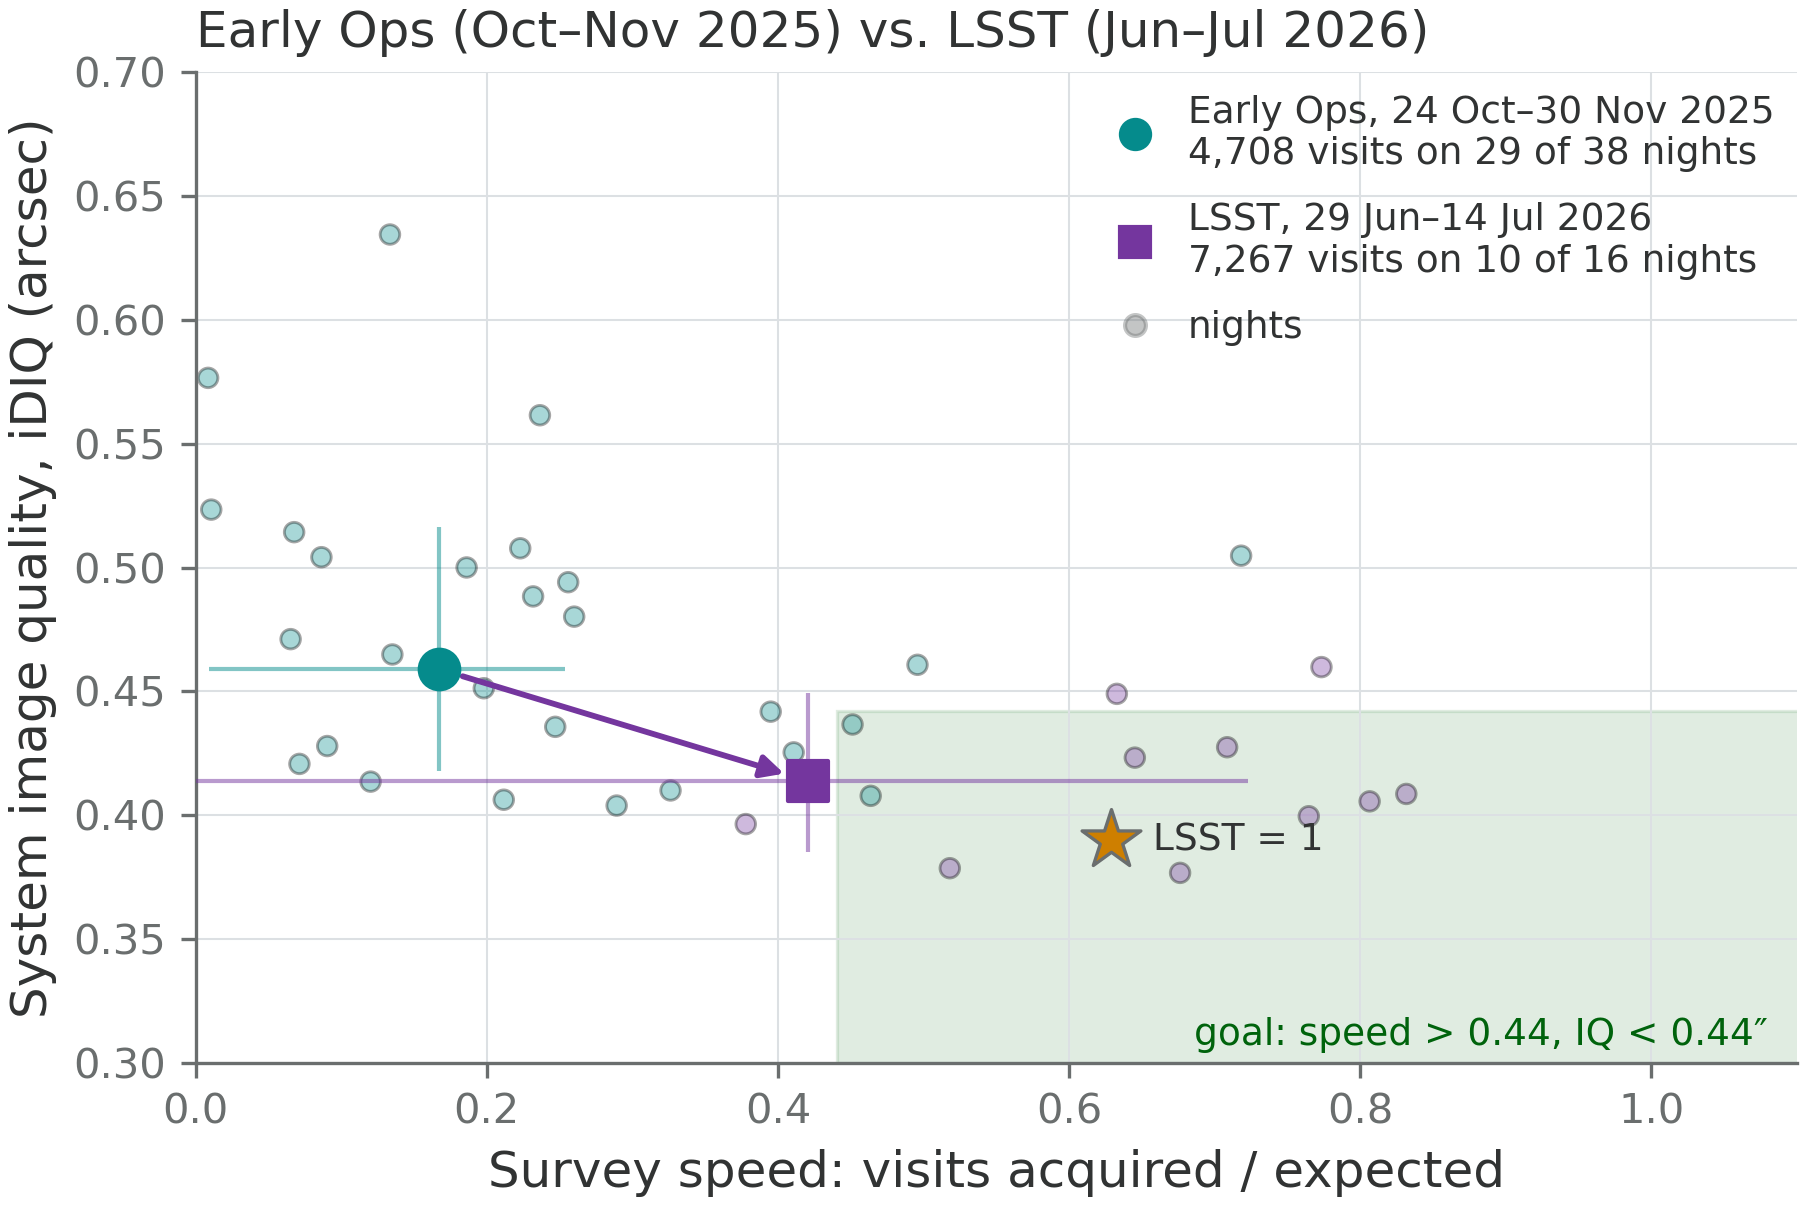
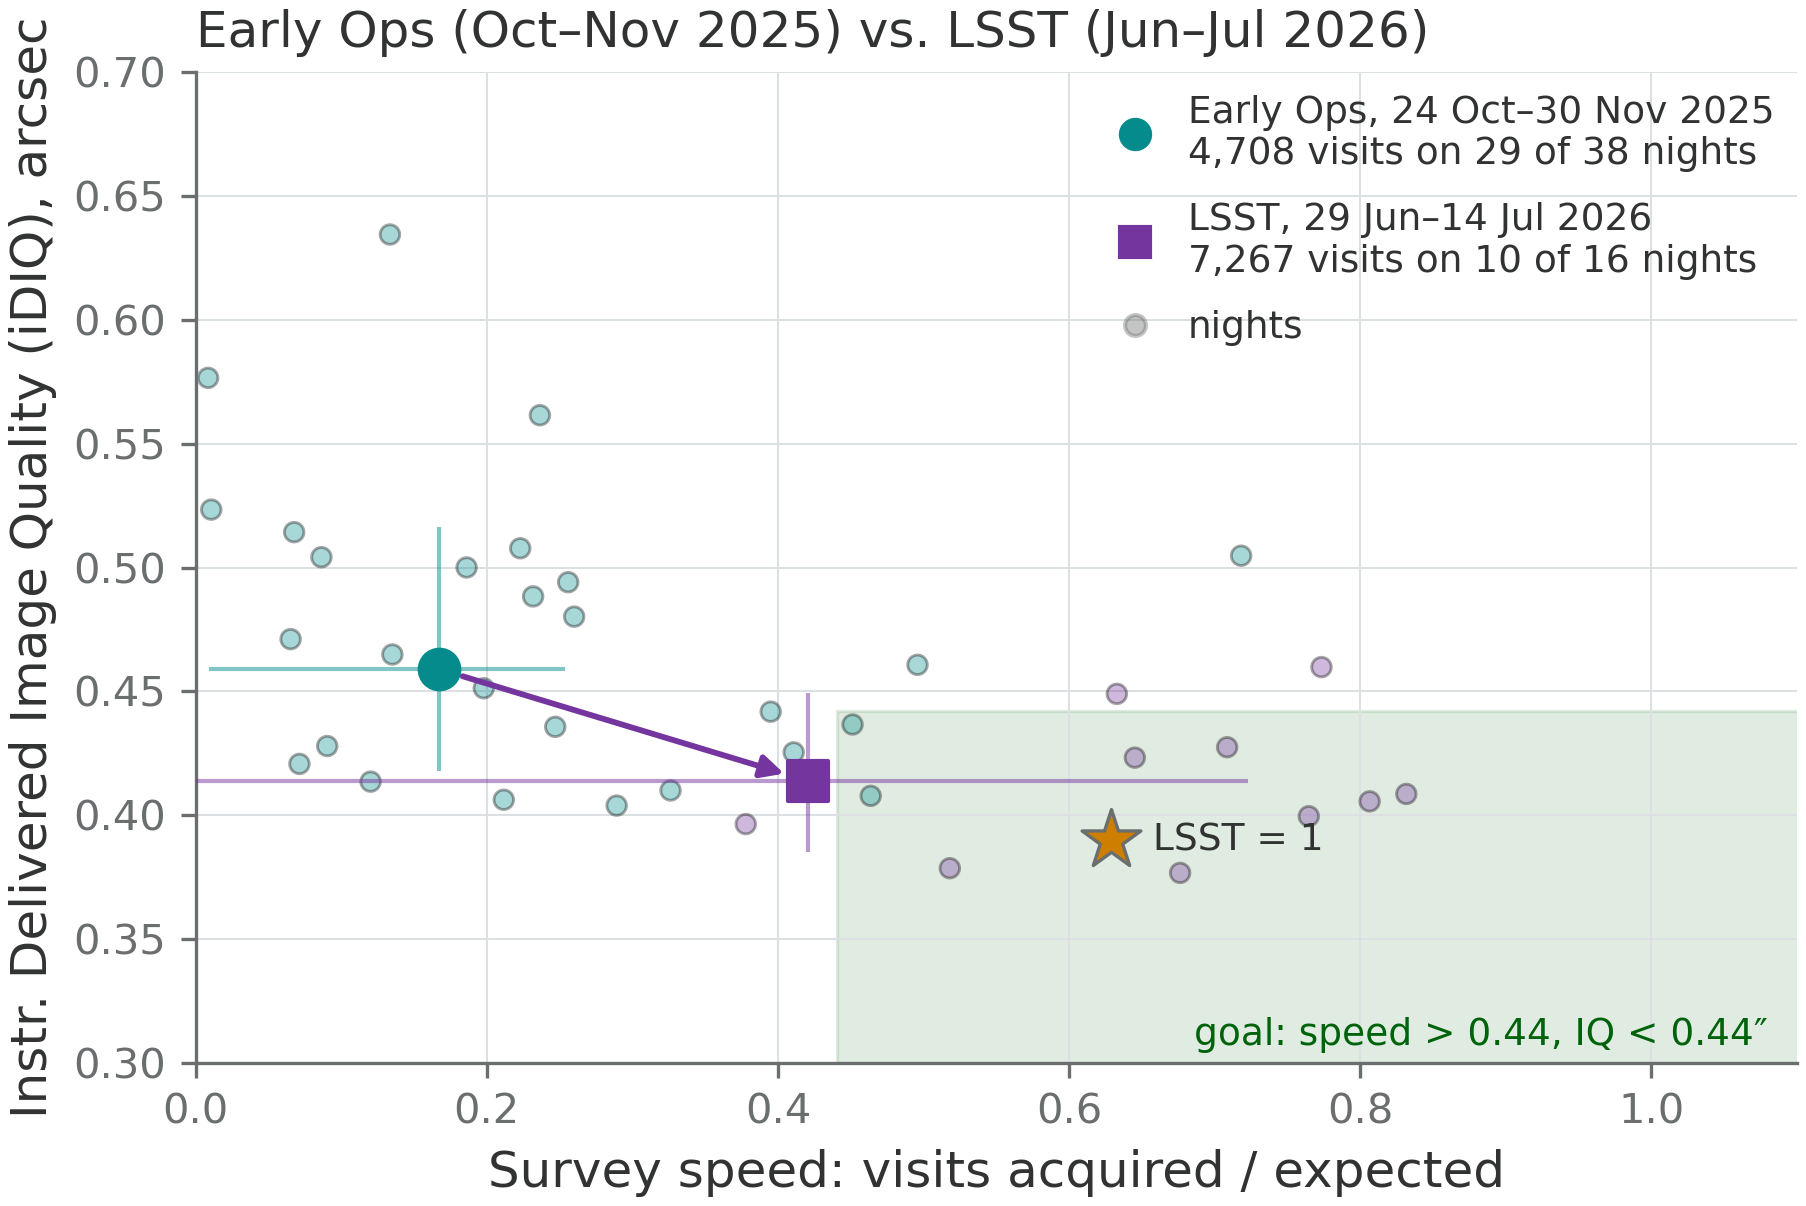
observatory_high_level_performance: label the y axis iDIQ, not "system" image quality
Phil Marshall pointed out that the y label mixed the two terms: iDIQ is the
instrument contribution to the delivered image quality (no dome/tube seeing),
while sDIQ is the system contribution (everything but the atmosphere, so
including dome/tube seeing). The plotted quantity (idiq_aos_cam) is iDIQ.

- y label is now "Instr. Delivered Image Quality (iDIQ), arcsec" in both the
  static (Y_LABELS_SHORT) and interactive (IQ_COLUMNS) figures
- goal-region label drops "system"; the ROST band is labelled as the measured
  system contribution, sDIQ, and its checkbox is "ROST sDIQ band"
- reference.py and README record the iDIQ/sDIQ definitions and note that
  RTN-093 calls its 0.45" criterion "sDIQ" while excluding dome seeing
- regenerated the five committed PNGs

Generated with AI

Changed region(s): [[0.0, 0.0307, 0.031, 0.9204]]

diff --git a/observatory_high_level_performance/ohlp/interactive.py b/observatory_high_level_performance/ohlp/interactive.py
@@ -291,7 +291,7 @@ def build_figure(
         y=yref["box_top"],
         x_units="data",
         y_units="data",
-        text="goal region: speed > %.2f, system IQ < %.2f″"
+        text="goal region: speed > %.2f, IQ < %.2f″"
         % (ref.VISIT_RATE.box_x_min, yref["box_top"]),
         text_align="right",
         text_baseline="top",
@@ -323,7 +323,7 @@ def build_figure(
     )
     p.add_layout(star_label)
 
-    # ROST measured full-system band (iDIQ axis only) ------------------------ #
+    # ROST measured system (sDIQ) band (iDIQ axis only) ---------------------- #
     rost = BoxAnnotation(
         bottom=ref.SYS_IQ_MEASURED_ROST[0],
         top=ref.SYS_IQ_MEASURED_ROST[1],
@@ -339,7 +339,7 @@ def build_figure(
     rost_label = Label(
         x=0.01,
         y=ref.SYS_IQ_MEASURED_ROST[1],
-        text="full-system IQ measured %.2f–%.2f″ (ROST Sep 2026; includes dome seeing and tracking, not comparable one-to-one)"
+        text="system contribution, sDIQ, measured %.2f–%.2f″ (ROST Sep 2026; includes dome seeing and tracking, so not one-to-one with iDIQ)"
         % ref.SYS_IQ_MEASURED_ROST,
         text_font_size="9pt",
         text_color=COLORS["rost_band"],
@@ -577,7 +577,7 @@ def build_figure(
         labels=[
             "Period points",
             "Nightly points",
-            "ROST full-system band",
+            "ROST sDIQ band",
         ],
         active=[
             i

diff --git a/observatory_high_level_performance/ohlp/reference.py b/observatory_high_level_performance/ohlp/reference.py
@@ -88,12 +88,16 @@ IDIQ_MIN: float = float(np.sqrt(SYS_IQ_START_CRITERION**2 - DOME_FWHM_BUDGET**2)
 #: cell 10 ``fiducial_atm = 0.7`` (SOTN-004 quotes 0.72 for the baseline sims).
 FIDUCIAL_ATM_FWHM: float = 0.7
 
-#: Brian Stalder's measured full-system contribution, arcsec, ROST 21 Sep 2026
+#: Brian Stalder's measured system contribution (sDIQ), arcsec, ROST 21 Sep 2026
 #: slide 2 ("0.55-0.60 arcsec, against a 0.40 budget"). It is the quadrature sum
 #: of the "measured" rows of SOTN-004 ``tab:diq_budget`` (optical figure 0.4,
 #: tracking drift 0.1, jitter 0.02, dome seeing 0.3-0.4, diffusion 0.207) and
 #: therefore INCLUDES dome seeing and tracking, which ``idiq_aos_cam`` does not.
-#: Drawn as a separate, toggleable band; not comparable one-to-one with the box.
+#: Terminology (Phil Marshall, 2026-10-20): iDIQ = instrument contribution to the
+#: delivered image quality, excluding dome/tube seeing; sDIQ = system contribution,
+#: everything except the atmosphere, so including dome/tube seeing. The y axis of
+#: the figure is iDIQ; this band is sDIQ. Drawn as a separate, toggleable band;
+#: not comparable one-to-one with the box.
 SYS_IQ_MEASURED_ROST: tuple[float, float] = (0.55, 0.60)
 
 #: Lower edge of the green region on the iDIQ axis (purely cosmetic; cell 15 ``y1``).

diff --git a/observatory_high_level_performance/ohlp/static.py b/observatory_high_level_performance/ohlp/static.py
@@ -27,7 +27,7 @@ __all__ = ["build_static_figure", "save_png"]
 
 #: Shorter y-axis labels for the small static figure (same quantities as IQ_COLUMNS).
 Y_LABELS_SHORT = {
-    "idiq_aos_cam": "System image quality, iDIQ (arcsec)",
+    "idiq_aos_cam": "Instr. Delivered Image Quality (iDIQ), arcsec",
     "fwhm_500_zenith": "Delivered FWHM, 500 nm zenith (arcsec)",
     "fwhm_geom": "Delivered FWHM, geometric (arcsec)",
 }

diff --git a/observatory_high_level_performance/ohlp/binning.py b/observatory_high_level_performance/ohlp/binning.py
@@ -41,7 +41,7 @@ __all__ = [
 
 #: Image-quality statistics available on the y axis, with axis labels.
 IQ_COLUMNS = {
-    "idiq_aos_cam": "Image quality added by the system, iDIQ (arcsec)",
+    "idiq_aos_cam": "Instr. Delivered Image Quality (iDIQ), arcsec",
     "fwhm_500_zenith": "Delivered FWHM corrected to 500 nm, zenith (arcsec)",
     "fwhm_geom": "Delivered FWHM, geometric (arcsec)",
 }

diff --git a/observatory_high_level_performance/README.md b/observatory_high_level_performance/README.md
@@ -78,8 +78,16 @@ airmass filter, no bad-visit exclusion. Columns kept are listed in `ohlp/data.py
 | Column | Definition | Role |
 |---|---|---|
 | `fwhm_geom` | `psf_sigma_median × 2.355 × pixel_scale_median` | total delivered FWHM |
-| `idiq_aos_cam` | `sqrt(aos_fwhm² + 0.207²)` | **default y**: optics (AOS estimate) + camera diffusion. Excludes atmosphere, dome seeing and tracking |
+| `idiq_aos_cam` | `sqrt(aos_fwhm² + 0.207²)` | **default y**: the *instrument* contribution to the delivered image quality, iDIQ: optics (AOS estimate) + camera diffusion. Excludes atmosphere, dome/tube seeing and tracking |
 | `fwhm_500_zenith` | `sqrt(atm_500_zenith² + idiq_aos_cam²)`, atmosphere scaled by airmass^0.6 and (500 nm / λ)^0.2 | delivered FWHM at a common reference |
+
+**iDIQ vs. sDIQ** (Phil Marshall, 2026-10-20). *iDIQ* is the instrument contribution to the
+delivered image quality and does not (purports not to) include dome/tube seeing. *sDIQ* is the
+system contribution: everything except the atmosphere, so it does include dome/tube seeing. The
+y axis of the figure is iDIQ; the ROST band (§6) is sDIQ. Axis labels and annotations must not call
+the y axis "system" image quality. Note that RTN-093 labels its 0.45″ survey-start criterion
+"sDIQ" while stating that it "excludes the dome seeing", i.e. it is an iDIQ-like quantity in Phil's
+terminology; this README keeps RTN-093's name when quoting it.
 
 `idiq_aos_cam` is the default because Lynne wrote "in general we trust the aos_fwhm version best"
 (2026-02-20) and it is the panel she draws first. Coverage of `aos_fwhm` among survey visits is above
@@ -183,12 +191,12 @@ All in `ohlp/reference.py`; the figure never hard-codes a number.
 | Box left edge | 0.440 | star x × `fE_min = 0.7` (RTN-093: lowest allowed normalised étendue, survey-start criterion "Survey Speed > 0.7") |
 | Box right edge | 1.2 | cosmetic, as in the source |
 | Star y (iDIQ) | 0.39″ | 0.40″ system requirement (LSE-29 LSR-REQ-0007 SysIm_0; LSE-30 OSS-REQ-0227/0228; LPM-17 §3.3.3.1 minimum) with the 0.084″ dome budget removed in quadrature. Proposed by Phil Marshall, #mtg-summit-kpi, 2026-02-12. Hard-coded `idiq = 0.39` in the source |
-| Box top (iDIQ) | 0.442″ | RTN-093 survey-start criterion 0.45″ (sDIQ, excludes dome seeing; reused in RTN-122) with 0.084″ removed in quadrature |
+| Box top (iDIQ) | 0.442″ | RTN-093 survey-start criterion 0.45″ (called "sDIQ" there but explicitly excluding dome seeing, see §4; reused in RTN-122) with 0.084″ removed in quadrature |
 | Star y (FWHM 500 nm zenith) | 0.806″ | `sqrt(0.7² + 0.39² + 0.084²)`; fiducial atmosphere 0.7″ from the source (SOTN-004 quotes 0.72″ for the baseline sims) |
 | Box top (FWHM 500 nm zenith) | 0.832″ | `sqrt(0.7² + 0.442² + 0.084²)` |
 | Star y / box top (FWHM geom) | 0.873″ / 0.897″ | atmosphere at airmass 1.2 (`0.7 × 1.2^0.6`), no dome term, as in the source |
 | 0.207″ (camera), 0.084″ (dome) | | SOTN-004 Table `tab:diq_budget` |
-| ROST band | 0.55–0.60″ | Brian Stalder, ROST 21 Sep 2026, slide 2: measured **full-system** contribution against a 0.40″ budget. Quadrature sum of the SOTN-004 "measured" rows: optical figure 0.4, tracking drift 0.1, jitter 0.02, dome seeing 0.3–0.4, diffusion 0.207. **Not the same quantity** as `idiq_aos_cam`, which omits dome seeing and tracking; the ~0.15″ difference is mostly measured dome seeing. Shown as a separate toggleable band on the iDIQ axis only |
+| ROST band | 0.55–0.60″ | Brian Stalder, ROST 21 Sep 2026, slide 2: measured **system** contribution (sDIQ) against a 0.40″ budget. Quadrature sum of the SOTN-004 "measured" rows: optical figure 0.4, tracking drift 0.1, jitter 0.02, dome seeing 0.3–0.4, diffusion 0.207. **Not the same quantity** as `idiq_aos_cam`, which omits dome seeing and tracking; the ~0.15″ difference is mostly measured dome seeing. Shown as a separate toggleable band ("ROST sDIQ band") on the iDIQ axis only |
 
 Caveat on labels: the source notebook's "goal" (0.39) is the SRD minimum less dome seeing, and its
 "minimum" (0.44) is the RTN-093 survey-start criterion.
@@ -245,7 +253,7 @@ FY26 Q3, Apr 2026 and Jun 2026 equal a direct `COUNT(*)` on `cdb_lsstcam.visit1`
 - Speed includes closed nights, by design (§5). The weather flag exists only from 2026-02-25, and only
   from the EFD state. The narrative-log column needs an RSP token (`~/.token_file`, scopes `read:image` and
   `exec:notebook`, created at https://usdf-rsp.slac.stanford.edu/auth/tokens).
-- `idiq_aos_cam` is not comparable to Brian's 0.55–0.60″ (different quantity, see §6).
+- `idiq_aos_cam` (iDIQ) is not comparable to Brian's 0.55–0.60″ (sDIQ, includes dome seeing; see §4 and §6).
 - Per-band seeing differences are not removed from `idiq_aos_cam` (it has no atmosphere term) but
   the band mix does change the `fwhm_*` statistics from period to period.
 - FY26 Q4 is 8 nights ending at the storm; its speed is dominated by the closed nights (see §5).
